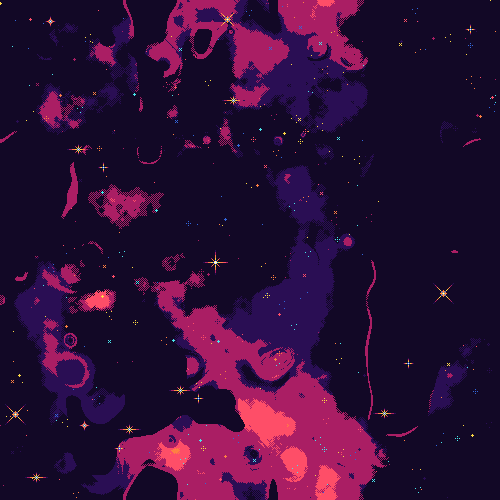
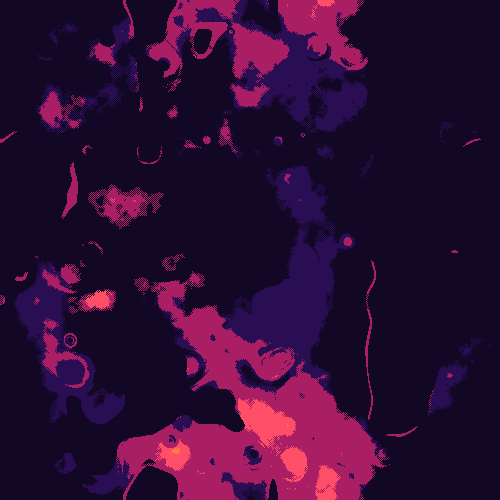
Add movement to background

diff --git a/src/gameLayer/gameLayer.cpp b/src/gameLayer/gameLayer.cpp
@@ -16,10 +16,12 @@ GameplayData data;
 
 gl2d::Renderer2D renderer;
 
-gl2d::Texture spaceShipTexture;
-gl2d::Texture backgroundTexture;
+constexpr int BACKGROUNDS = 3;
 
-TiledRenderer tiledRenderer;
+gl2d::Texture spaceShipTexture;
+gl2d::Texture backgroundTexture[BACKGROUNDS];
+
+TiledRenderer tiledRenderer[BACKGROUNDS];
 
 bool initGame()
 {
@@ -28,9 +30,17 @@ bool initGame()
 	renderer.create();
 
 	spaceShipTexture.loadFromFile(RESOURCES_PATH "spaceShip/ships/green.png", true);
-	backgroundTexture.loadFromFile(RESOURCES_PATH "background1.png", true);
+	backgroundTexture[0].loadFromFile(RESOURCES_PATH "background1.png", true);
+	backgroundTexture[1].loadFromFile(RESOURCES_PATH "background2.png", true);
+	backgroundTexture[2].loadFromFile(RESOURCES_PATH "background3.png", true);
 
-	tiledRenderer.texture = backgroundTexture;
+	tiledRenderer[0].texture = backgroundTexture[0];
+	tiledRenderer[1].texture = backgroundTexture[1];
+	tiledRenderer[2].texture = backgroundTexture[2];
+
+	tiledRenderer[0].paralaxStrength = 0;
+	tiledRenderer[1].paralaxStrength = 0.42;
+	tiledRenderer[2].paralaxStrength = 0.89;
 
 	return true;
 }
@@ -91,7 +101,10 @@ bool gameLogic(float deltaTime)
 #pragma region render background
 
 	renderer.currentCamera.zoom = 0.5;
-	tiledRenderer.render(renderer);
+
+	for (int i = 0; i < BACKGROUNDS; i++) {
+		tiledRenderer[i].render(renderer);
+	}
 
 #pragma endregion
 

diff --git a/src/gameLayer/tiledRenderer.cpp b/src/gameLayer/tiledRenderer.cpp
@@ -6,12 +6,18 @@
 void TiledRenderer::render(gl2d::Renderer2D &renderer) {
     auto viewRect = renderer.getViewRect();
 
+    glm::vec2 paralaxDistance = {viewRect.x, viewRect.y};
+    paralaxDistance *= -paralaxStrength;
+
     for (int y = -1; y <= 1; y++) {
         for (int x = -1; x <= 1; x++) {
-            int posX = x + int(viewRect.x / backgroundSize);
-            int posY = y + int(viewRect.y / backgroundSize);
+            int posX = x + int((viewRect.x - paralaxDistance.x) / backgroundSize);
+            int posY = y + int((viewRect.y - paralaxDistance.y) / backgroundSize);
 
-            renderer.renderRectangle(glm::vec4{posX, posY, 1, 1} * backgroundSize, texture);
+            renderer.renderRectangle(
+                glm::vec4{posX, posY, 1, 1} * backgroundSize
+                +glm::vec4(paralaxDistance,0,0)
+                , texture);
         }
     }
 

diff --git a/include/gameLayer/tiledRenderer.h b/include/gameLayer/tiledRenderer.h
@@ -9,5 +9,7 @@ struct TiledRenderer {
     float backgroundSize = 10000;
     gl2d::Texture texture;
 
+    float paralaxStrength = 1;
+
     void render(gl2d::Renderer2D &renderer);
 };
